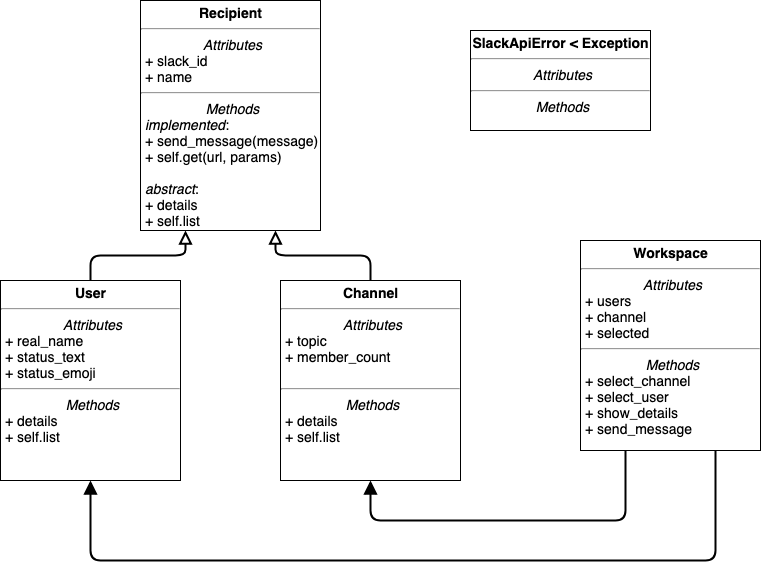
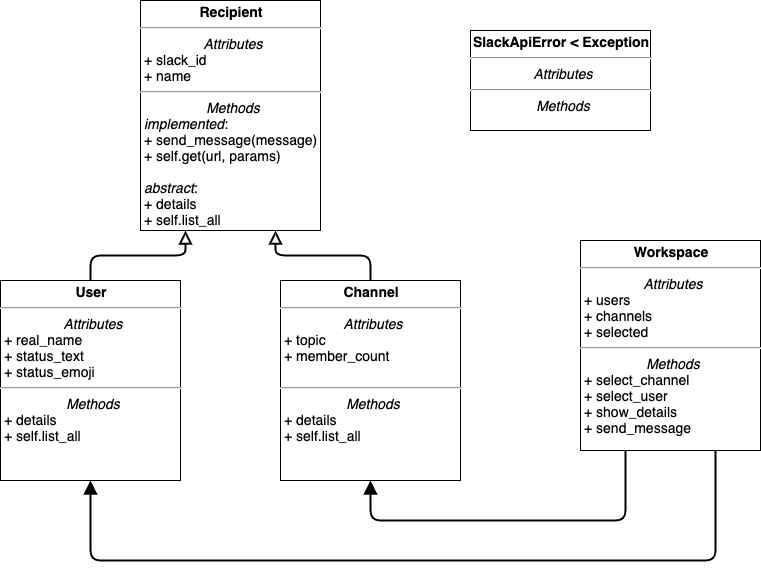
spells out slack.rb/workspace dependency, adds hints for refactoring after design, updates UML channel->channels, self.list->self.list_all

diff --git a/design_activity.md b/design_activity.md
@@ -10,19 +10,20 @@ While we encourage you to use the provided design for this project, there is muc
 - Compare and contrast different designs for the same program
 - Implement a program from a provided UML diagram
 
-## Your Design
+## First Draft Design
 
-Read through the project requirements with your partner, then follow our standard [object-oriented design process](https://github.com/Ada-Developers-Academy/textbook-curriculum/blob/master/02-intermediate-ruby/oo-design.md).
+1. Read through the project requirements with your partner, then follow our standard [object-oriented design process](https://github.com/Ada-Developers-Academy/textbook-curriculum/blob/master/02-intermediate-ruby/oo-design.md).
+    - What are the nouns, and how are they composed into objects and relations?
+    - What are the verbs, and which verb belongs with which object?
+2. From above, we are leading you to certain classes and dependencies. We want `lib/slack.rb` to have only **one dependency**: `Workspace`. We want `Workspace` to have at least two dependencies: `User` and `Channel`. We want `Workspace` to have many `User`s (composition). Also, we want `Workspace` to have many `Channel`s (composition). After reading through the requirements, what verbs are associated with `User`? What verbs are associated with `Channel`? What's **similar**? What's **different**?
+3. The `User` and `Channel` classes have similar enough verbs and responsibilities, that we could design them to have inheritance relationships. What ideas can you come up with? What would the common behaviors/methods be named?
 
-- What are the nouns, and how are they composed into objects and relations?
-- What are the verbs, and which verb belongs with which object?
+Create a rough UML diagram for your design's first draft.
 
-Build a UML diagram with your partner.
-
-## Instructor Design
+## Compare With Another Design
 
 <details>
-<summary>Once you are happy with your design, click here to see the UML from the instructor implementation</summary>
+<summary>Once you have a first draft of your design, click here to see the UML for one instructor implementation.</summary>
 
 ![Instructor Design](images/instructor-design.png)
 
@@ -32,19 +33,37 @@ Note that only public methods and attributes are shown.
 
 </details>
 
-With your partner, answer the following questions about the instructor design:
+### Reflect
 
+With your partner, answer the following questions about the above design:
+
+- What classes exist?
+  - Why? What are they named, what do they represent, and what state and behavior do they have?
 - What _composition_ relations exist between objects in this design?
 - What _inheritance_ relations exist between objects in this design?
-- How are the objects and the relations between objects, different than the design you and your partner came up with?
-    - Why do you imagine we did it this way?
-    - What are the pros and cons of each approach?
-- How are the methods and the placement of methods within objects different than the design you and your partner came up with?
-    - Why do you imagine we did it this way?
-    - What are the pros and cons of each approach?
-- What surprised you about this design?
-- What questions do you have about this design?
-- What class(es) should `slack.rb` interact with? (hint: We want to minimize the number of classes it interacts with if possible.)
+- What parts of this design inspires you, and you want to steal?
+- What parts of this design are you unsure about, and need to consider again later?
+- What parts of this design do you think you can do without?
+
+<details>
+
+  <summary>Final Design Question: What class(es) should `slack.rb` interact with/depend on?</summary>
+
+`slack.rb` should only interact with one class, `Workspace`.
+
+We want to minimize the number of classes it depends on if possible.
+
+The `slack.rb` file should not create, call, or use the `User`, `Channel`, or `Recipient` classes at all. The `slack.rb` file should mainly be interacting with the instance of `Workspace` created in the line `workspace = Workspace.new`. All `User`-related information that `slack.rb` receives should be returned from calling a method defined in the `Workspace` class.
+
+</details>
+
+### What If I Don't Understand The Design?
+
+There's a chance that there are things about this design that aren't very clear as to _why_ they are beneficial.
+
+1. If you're unsure about if you need users and channels to inherit from `Recipient`, try implementing the project without inheriting from `Recipient` first!
+    - Then, afterwards, check to see if you can refactor `User` and `Channel` to inherit from a new `Recipient` class. It will be more visible as to _why_ inheritance can be useful after users and channels have been built out, and you can see what the two classes have in common.
+1. If you're unsure about what some methods mean in our UML diagram (what does `get` do? Why is `self.list_all` a class method?), then try implementing the project without those method names first. Then, refactor your method names to see if they can match up with ours. Method names are hard; sometimes it's not very obvious what they're doing until you have to make a GET request. 😉
 
 ## Wrap-up
 

diff --git a/README.md b/README.md
@@ -73,16 +73,16 @@ For this project, we have provided our standard test infrastructure:
 - Any tests involving a `User` should use the username `SlackBot`
 - Any tests involving a `Channel` should use the `#random` channel
 
-**Do not need to test your main command loop, or the user interaction portions of your app.** However, **all other classes and helper methods should be thoroughly tested**. Here are some tips:
+**Do not need to test your main command loop, or the user interaction portions of your app.** However, **all classes and helper methods should be thoroughly tested**. Here are some tips:
 
 - Follow TDD best practices (pseudocode, red, green, refactor)
 - Add tests for all code you write
 - Make sure all tests are green before pushing to GitHub
 - Make sure all tests are green after you pull
 
-## Implementation Requirements
+## Design Requirements
 
-### Wave 1: Setup `slack.rb` and `Workspace`
+### Setup `slack.rb` and `Workspace`
 
 Open `lib/slack.rb`. Read through it and answer these questions:
 
@@ -96,19 +96,21 @@ We want every project to have a `Workspace` class. To setup this class, do the f
 1. The `initialize` should not take in any parameters
 1. Within `initialize`, the class should set up the instance variables `@users` and `@channels`. Set the value of `@users` to an empty array. Set the value of `@channels` to an empty array. Eventually, these should be refactored so that they are arrays of users or arrays of channels
 1. Set `attr_reader` for these two instance variables in `Workspace`
-1. Run `$ ruby lib/slack.rb` to make sure that the Ruby program runs without syntax errors. You probably should get
+1. Run `$ ruby lib/slack.rb` to make sure that the Ruby program runs without syntax errors. If you get an error that says that `Workspace` is not defined, what line of code do you need to add to the top of `lib/slack.rb` in order to load another class?
 1. With your pair, determine: What is the relationship between `Workspace` and a `User`? Is it inheritance or composition? Is-a or has-a or has-many? How do we know from the Ruby code?
 1. With your pair, determine: What is the relationship between `Workspace` and a `Channel`? Is it inheritance or composition? Is-a or has-a or has-many? How do we know from the Ruby code?
 
-### Wave 2: Setup `Recipient`, `User`, and `Channel`
+### Design Activity
 
+Do this design activity to help set up the classes and overall project design.
 
+## Implementation Requirements
 
 ### Wave 1: `User` and users in `slack.rb`
 
 #### User Stories
 
-As a CLI user, when I launch this program using `$ ruby lib/slack.rb`... 
+As a CLI user, when I launch this program using `$ ruby lib/slack.rb`...
 - I should see information about how many channels and users are in this workspace
 - I should then be one option for how to interact with the program:
   - `list users`
@@ -128,7 +130,7 @@ Implement the features for this wave with the following design requirements, alo
 
 ### Wave 1 - Listing Channels and Users
 
-As a user, when I launch this program... 
+As a CLI user, when I launch this program using `$ ruby lib/slack.rb`...
 
 - I should see information about how many channels and users were loaded
 - I should then be given three options for how to interact with the program:
@@ -149,12 +151,15 @@ As a user who is at the program's input prompt...
 
 **Vocab:** channels and users are both _recipients_.
 
-As a user at the input prompt...
+As a CLI user, when I launch this program using `$ ruby lib/slack.rb`...
 
 - I should see three additional options:
   - `select user`: select a user as the current recipient
   - `select channel`: select a channel as the current recipient
   - `details`: show details on the current recipient
+
+As a user who is at the program's input prompt...
+
 - When I type `select user`, I should be able to supply a username or Slack ID. The corresponding user should be the "selected" recipient.
 - When I type `select channel`, I should be able to supply a channel name or Slack ID. The corresponding channel should be the "selected" recipient.
 - For selecting both users and channels, if no user/channel has that name or ID, the program should let me know and return to the main command loop.
@@ -163,9 +168,12 @@ As a user at the input prompt...
 
 ### Wave 3 - Sending Messages
 
-As a user at the input prompt...
+As a CLI user, when I launch this program using `$ ruby lib/slack.rb`...
 
 - I should see one additional option: `send message`.
+
+As a user who is at the program's input prompt...
+
 - When I type `send message`, if a recipient is selected the program should ask me to type out a message, which will be sent to that recipient.
   - If no recipient is currently selected, the program should let me know and return to the main command prompt.
 
